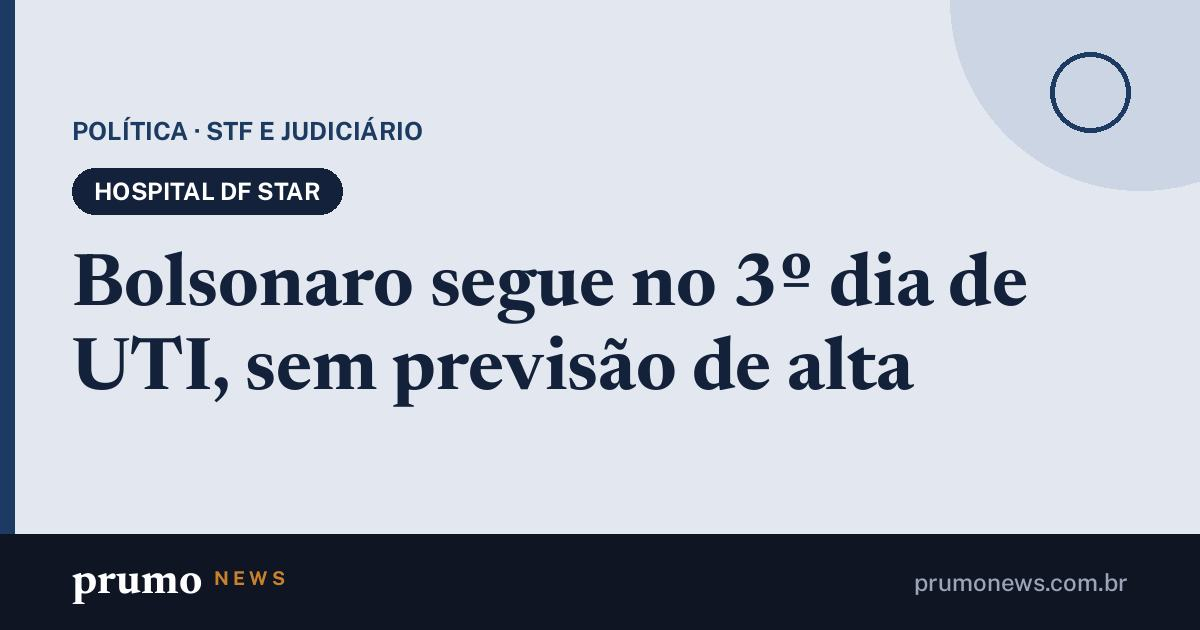
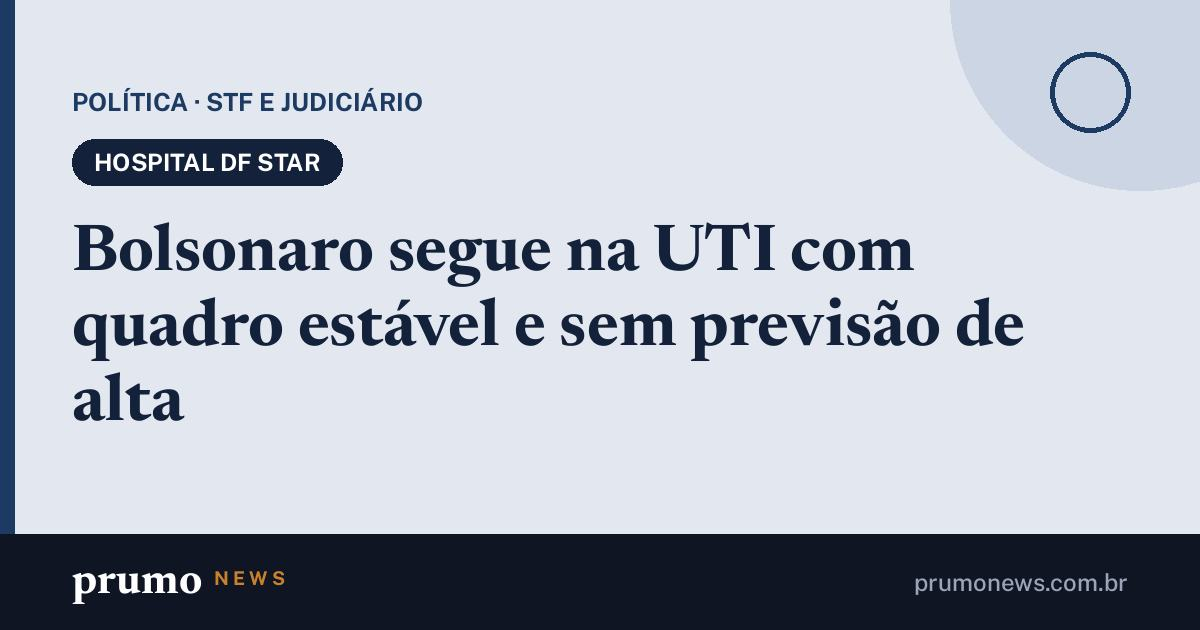
Páginas de compartilhamento 22/11 15h50

Changed region(s): [[0.0617, 0.1508, 0.8633, 0.6937]]

diff --git a/m/bolsonaro-hospital-dores-abdominais.html b/m/bolsonaro-hospital-dores-abdominais.html
@@ -3,20 +3,22 @@
 <head>
 <meta charset="utf-8">
 <meta name="viewport" content="width=device-width, initial-scale=1">
-<title>Bolsonaro passa a noite sem dor e faz exames de imagem, diz Michelle · Prumo News</title>
-<meta name="description" content="Michelle diz que ele caminhou e fez exames para avaliar os próximos passos; segue internado, sem previsão de alta.">
-<link rel="canonical" href="https://prumonews.com.br/m/bolsonaro-passa-a-noite-sem-dor-e-faz-exames-de-imagem-diz-michelle.html">
+<title>Bolsonaro segue na UTI com quadro estável e sem previsão de alta · Prumo News</title>
+<meta name="description" content="No terceiro dia no Hospital DF Star, em Brasília, o ex-presidente está clinicamente estável, segundo o boletim médico de domingo (22).">
+<link rel="canonical" href="https://prumonews.com.br/m/bolsonaro-segue-na-uti-com-quadro-estavel-e-sem-previsao-de-alta.html">
 <meta property="og:type" content="article">
 <meta property="og:site_name" content="Prumo News">
 <meta property="og:locale" content="pt_BR">
-<meta property="og:title" content="Bolsonaro passa a noite sem dor e faz exames de imagem, diz Michelle">
-<meta property="og:description" content="Michelle diz que ele caminhou e fez exames para avaliar os próximos passos; segue internado, sem previsão de alta.">
-<meta property="og:url" content="https://prumonews.com.br/m/bolsonaro-passa-a-noite-sem-dor-e-faz-exames-de-imagem-diz-michelle.html">
-<meta property="og:image" content="https://upload.wikimedia.org/wikipedia/commons/thumb/5/58/Michelle_Bolsonaro_%2848679345758%29_%28cropped%29.jpg/960px-Michelle_Bolsonaro_%2848679345758%29_%28cropped%29.jpg">
+<meta property="og:title" content="Bolsonaro segue na UTI com quadro estável e sem previsão de alta">
+<meta property="og:description" content="No terceiro dia no Hospital DF Star, em Brasília, o ex-presidente está clinicamente estável, segundo o boletim médico de domingo (22).">
+<meta property="og:url" content="https://prumonews.com.br/m/bolsonaro-segue-na-uti-com-quadro-estavel-e-sem-previsao-de-alta.html">
+<meta property="og:image" content="https://prumonews.com.br/m/og/bolsonaro-hospital-dores-abdominais.jpg?v=2f121e7ffa">
+<meta property="og:image:width" content="1200">
+<meta property="og:image:height" content="630">
 <meta name="twitter:card" content="summary_large_image">
 <meta name="theme-color" content="#0f1522">
 <script>location.replace("/#m=bolsonaro-hospital-dores-abdominais")</script>
 <style>body{margin:0;font:16px/1.5 system-ui,sans-serif;background:#0f1522;color:#e8ecf2;display:grid;place-items:center;min-height:100vh;padding:24px;box-sizing:border-box;text-align:center}a{color:#e6b673}</style>
 </head>
-<body><p><a href="/#m=bolsonaro-hospital-dores-abdominais">Bolsonaro passa a noite sem dor e faz exames de imagem, diz Michelle</a><br>Abrindo no Prumo News…</p></body>
+<body><p><a href="/#m=bolsonaro-hospital-dores-abdominais">Bolsonaro segue na UTI com quadro estável e sem previsão de alta</a><br>Abrindo no Prumo News…</p></body>
 </html>

diff --git a/m/bolsonaro-segue-na-uti-com-quadro-estavel-e-sem-previsao-de-alta.html b/m/bolsonaro-segue-na-uti-com-quadro-estavel-e-sem-previsao-de-alta.html
@@ -1,0 +1,24 @@
+<!doctype html>
+<html lang="pt-BR">
+<head>
+<meta charset="utf-8">
+<meta name="viewport" content="width=device-width, initial-scale=1">
+<title>Bolsonaro segue na UTI com quadro estável e sem previsão de alta · Prumo News</title>
+<meta name="description" content="No terceiro dia no Hospital DF Star, em Brasília, o ex-presidente está clinicamente estável, segundo o boletim médico de domingo (22).">
+<link rel="canonical" href="https://prumonews.com.br/m/bolsonaro-segue-na-uti-com-quadro-estavel-e-sem-previsao-de-alta.html">
+<meta property="og:type" content="article">
+<meta property="og:site_name" content="Prumo News">
+<meta property="og:locale" content="pt_BR">
+<meta property="og:title" content="Bolsonaro segue na UTI com quadro estável e sem previsão de alta">
+<meta property="og:description" content="No terceiro dia no Hospital DF Star, em Brasília, o ex-presidente está clinicamente estável, segundo o boletim médico de domingo (22).">
+<meta property="og:url" content="https://prumonews.com.br/m/bolsonaro-segue-na-uti-com-quadro-estavel-e-sem-previsao-de-alta.html">
+<meta property="og:image" content="https://prumonews.com.br/m/og/bolsonaro-hospital-dores-abdominais.jpg?v=2f121e7ffa">
+<meta property="og:image:width" content="1200">
+<meta property="og:image:height" content="630">
+<meta name="twitter:card" content="summary_large_image">
+<meta name="theme-color" content="#0f1522">
+<script>location.replace("/#m=bolsonaro-hospital-dores-abdominais")</script>
+<style>body{margin:0;font:16px/1.5 system-ui,sans-serif;background:#0f1522;color:#e8ecf2;display:grid;place-items:center;min-height:100vh;padding:24px;box-sizing:border-box;text-align:center}a{color:#e6b673}</style>
+</head>
+<body><p><a href="/#m=bolsonaro-hospital-dores-abdominais">Bolsonaro segue na UTI com quadro estável e sem previsão de alta</a><br>Abrindo no Prumo News…</p></body>
+</html>

diff --git a/m/delta-falha-sistema-atrasos-eua.html b/m/delta-falha-sistema-atrasos-eua.html
@@ -1,0 +1,22 @@
+<!doctype html>
+<html lang="pt-BR">
+<head>
+<meta charset="utf-8">
+<meta name="viewport" content="width=device-width, initial-scale=1">
+<title>Falha em sistema da Delta atrasa voos nos EUA · Prumo News</title>
+<meta name="description" content="Uma falha no sistema de automação da Delta Air Lines causa atrasos em voos nos Estados Unidos neste domingo (22).">
+<link rel="canonical" href="https://prumonews.com.br/m/falha-em-sistema-da-delta-atrasa-voos-nos-eua.html">
+<meta property="og:type" content="article">
+<meta property="og:site_name" content="Prumo News">
+<meta property="og:locale" content="pt_BR">
+<meta property="og:title" content="Falha em sistema da Delta atrasa voos nos EUA">
+<meta property="og:description" content="Uma falha no sistema de automação da Delta Air Lines causa atrasos em voos nos Estados Unidos neste domingo (22).">
+<meta property="og:url" content="https://prumonews.com.br/m/falha-em-sistema-da-delta-atrasa-voos-nos-eua.html">
+<meta property="og:image" content="https://upload.wikimedia.org/wikipedia/commons/thumb/6/6d/Alaska_Airlines_Airbus_A321-253N_N927VA_departing_JFK_Airport.jpg/960px-Alaska_Airlines_Airbus_A321-253N_N927VA_departing_JFK_Airport.jpg">
+<meta name="twitter:card" content="summary_large_image">
+<meta name="theme-color" content="#0f1522">
+<script>location.replace("/#m=delta-falha-sistema-atrasos-eua")</script>
+<style>body{margin:0;font:16px/1.5 system-ui,sans-serif;background:#0f1522;color:#e8ecf2;display:grid;place-items:center;min-height:100vh;padding:24px;box-sizing:border-box;text-align:center}a{color:#e6b673}</style>
+</head>
+<body><p><a href="/#m=delta-falha-sistema-atrasos-eua">Falha em sistema da Delta atrasa voos nos EUA</a><br>Abrindo no Prumo News…</p></body>
+</html>

diff --git a/m/falha-em-sistema-da-delta-atrasa-voos-nos-eua.html b/m/falha-em-sistema-da-delta-atrasa-voos-nos-eua.html
@@ -1,0 +1,22 @@
+<!doctype html>
+<html lang="pt-BR">
+<head>
+<meta charset="utf-8">
+<meta name="viewport" content="width=device-width, initial-scale=1">
+<title>Falha em sistema da Delta atrasa voos nos EUA · Prumo News</title>
+<meta name="description" content="Uma falha no sistema de automação da Delta Air Lines causa atrasos em voos nos Estados Unidos neste domingo (22).">
+<link rel="canonical" href="https://prumonews.com.br/m/falha-em-sistema-da-delta-atrasa-voos-nos-eua.html">
+<meta property="og:type" content="article">
+<meta property="og:site_name" content="Prumo News">
+<meta property="og:locale" content="pt_BR">
+<meta property="og:title" content="Falha em sistema da Delta atrasa voos nos EUA">
+<meta property="og:description" content="Uma falha no sistema de automação da Delta Air Lines causa atrasos em voos nos Estados Unidos neste domingo (22).">
+<meta property="og:url" content="https://prumonews.com.br/m/falha-em-sistema-da-delta-atrasa-voos-nos-eua.html">
+<meta property="og:image" content="https://upload.wikimedia.org/wikipedia/commons/thumb/6/6d/Alaska_Airlines_Airbus_A321-253N_N927VA_departing_JFK_Airport.jpg/960px-Alaska_Airlines_Airbus_A321-253N_N927VA_departing_JFK_Airport.jpg">
+<meta name="twitter:card" content="summary_large_image">
+<meta name="theme-color" content="#0f1522">
+<script>location.replace("/#m=delta-falha-sistema-atrasos-eua")</script>
+<style>body{margin:0;font:16px/1.5 system-ui,sans-serif;background:#0f1522;color:#e8ecf2;display:grid;place-items:center;min-height:100vh;padding:24px;box-sizing:border-box;text-align:center}a{color:#e6b673}</style>
+</head>
+<body><p><a href="/#m=delta-falha-sistema-atrasos-eua">Falha em sistema da Delta atrasa voos nos EUA</a><br>Abrindo no Prumo News…</p></body>
+</html>
